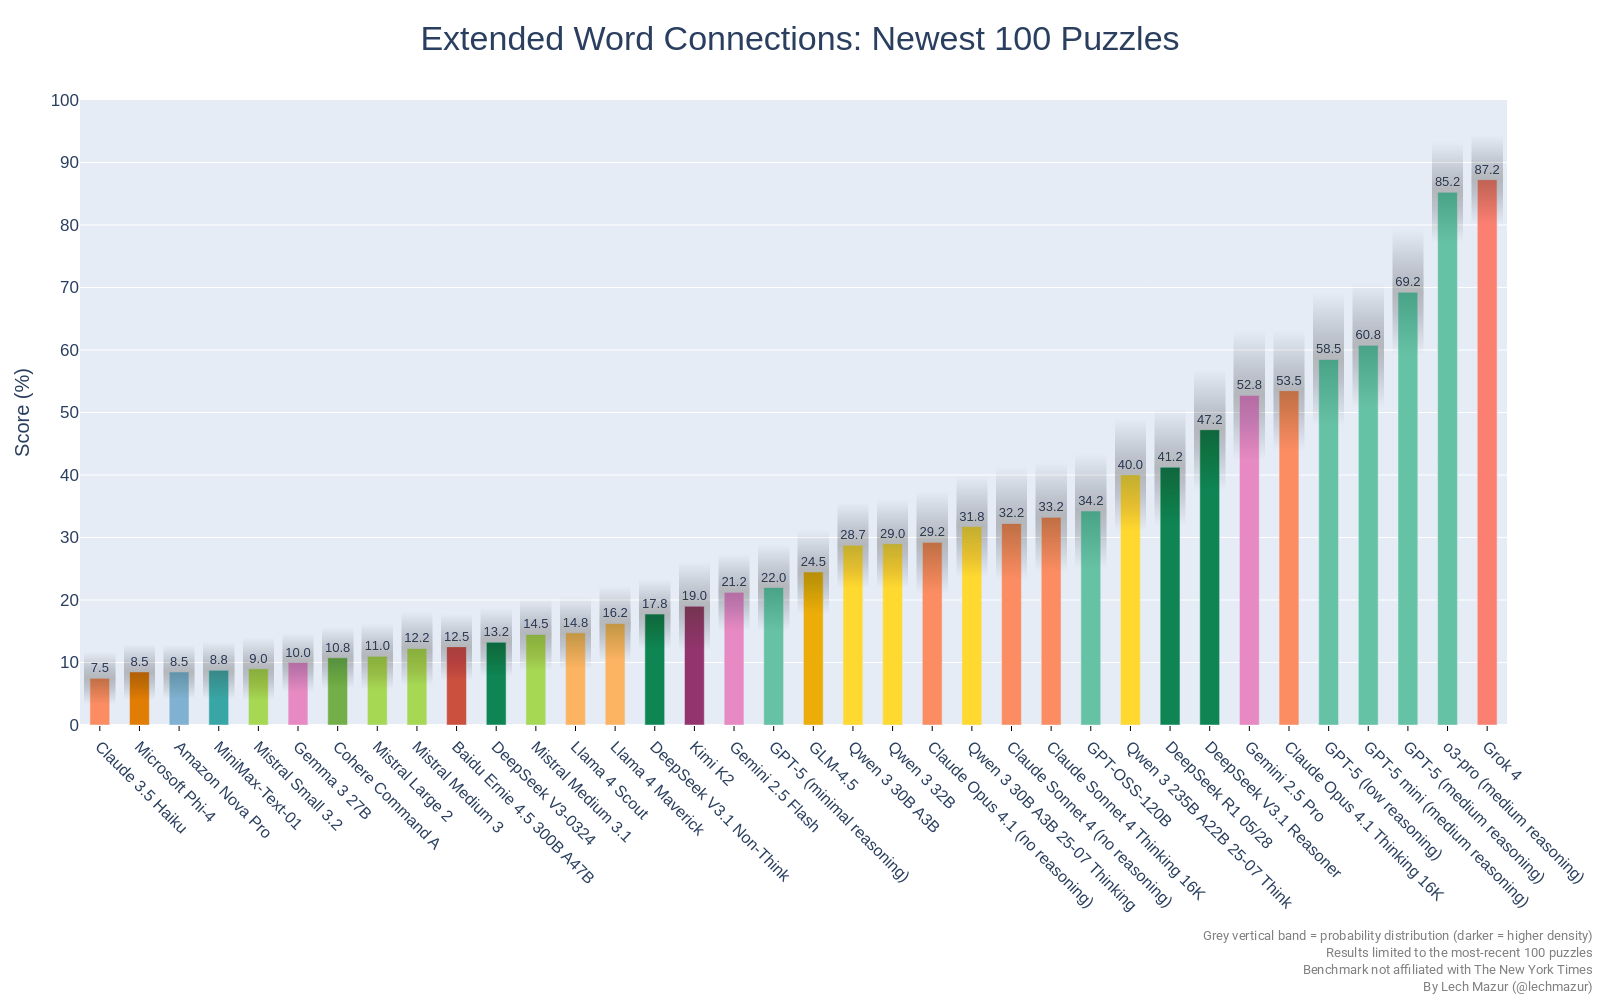
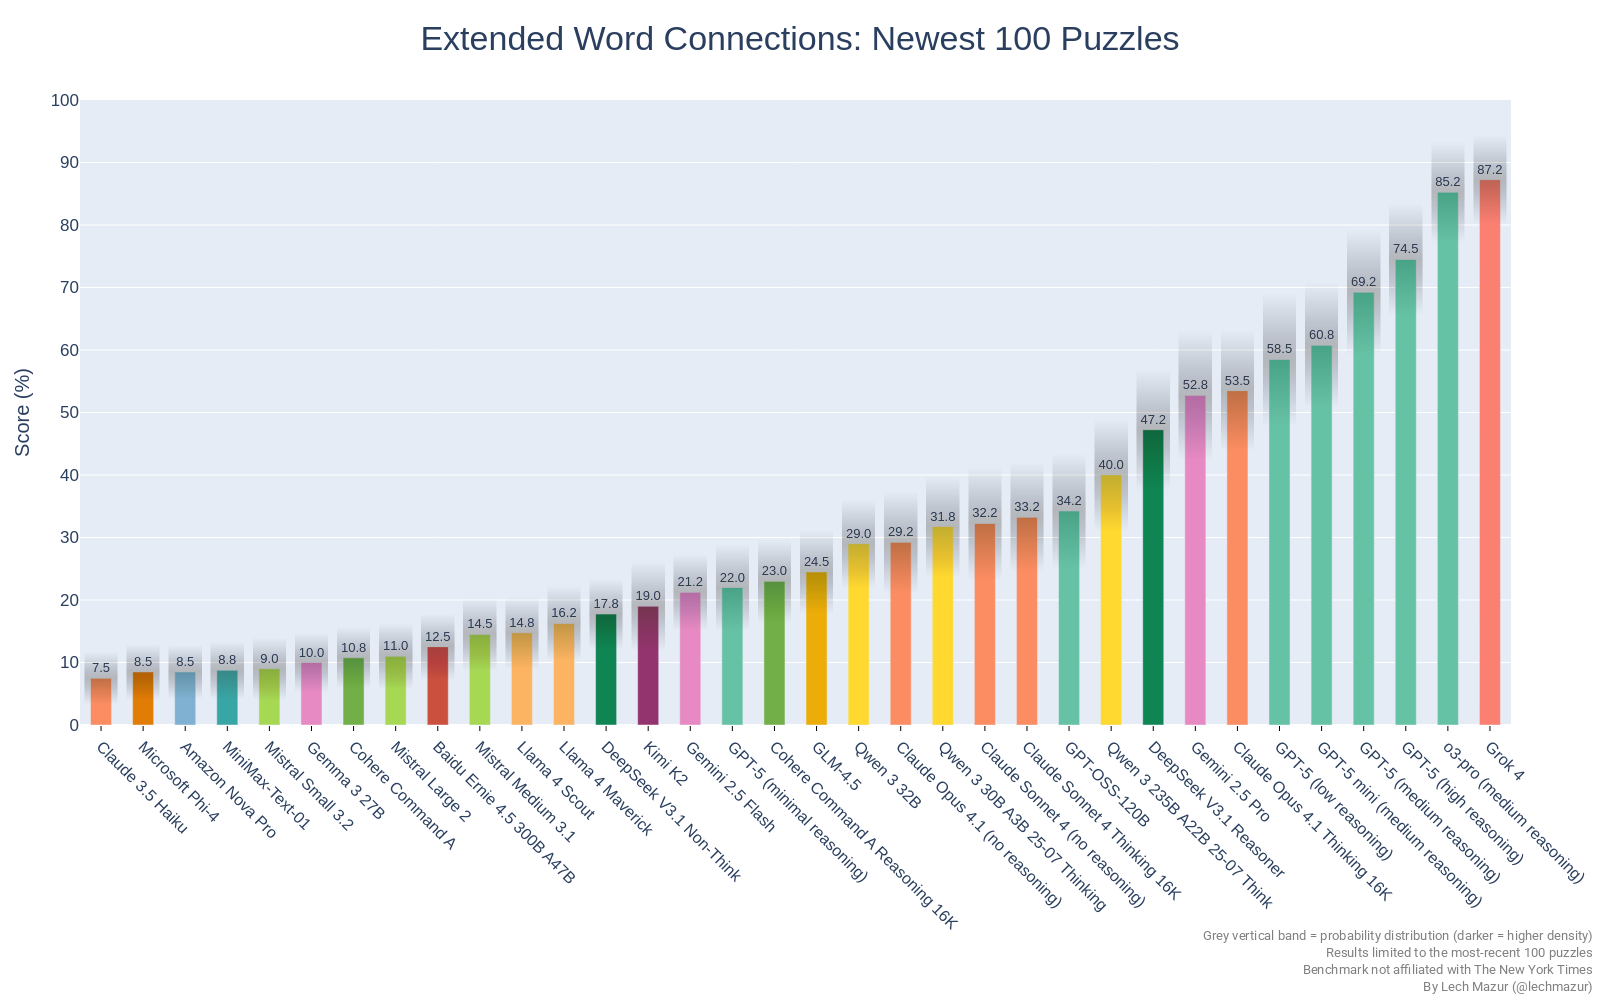
GPT-5 high reasoning and Cohere Command A Reasoning (16K)

Changed region(s): [[0.0625, 0.155, 0.9688, 0.93]]

diff --git a/README.md b/README.md
@@ -16,88 +16,90 @@ As of Feb 4, 2025, there is a new version of the benchmark. The standard NYT Con
 |2|o3-pro (medium reasoning)|87.3|759|
 |3|o1-pro (medium reasoning)|82.5|651|
 |4|o3 (high reasoning)|78.6|759|
-|5|o4-mini (high reasoning)|73.6|759|
-|6|o3 (medium reasoning)|73.0|759|
-|7|GPT-5 (medium reasoning)|72.2|759|
-|8|o1 (medium reasoning)|70.8|651|
-|9|o4-mini (medium reasoning)|68.8|651|
-|10|GPT-5 mini (medium reasoning)|66.9|759|
-|11|GPT-5 (low reasoning)|65.4|759|
-|12|o3-mini (high reasoning)|61.4|651|
-|13|Claude Opus 4.1 Thinking 16K|58.8|759|
-|14|DeepSeek V3.1 Reasoner|57.7|759|
-|15|Gemini 2.5 Pro|57.6|759|
-|16|Qwen 3 235B A22B|54.3|759|
-|17|Gemini 2.5 Pro Exp 03-25|54.1|651|
-|18|o3-mini (medium reasoning)|53.6|651|
-|19|Claude Opus 4 Thinking 16K|49.7|759|
-|20|DeepSeek R1 05/28|48.6|759|
-|21|Qwen 3 235B A22B 25-07 Think|46.2|759|
-|22|Gemini 2.5 Pro Preview 05-06|42.5|651|
-|23|Claude Sonnet 4 Thinking 16K|40.3|759|
-|24|Claude Sonnet 4 Thinking 64K|39.6|651|
-|25|GPT-OSS-120B|38.7|759|
-|26|DeepSeek R1|38.6|651|
-|27|Claude Opus 4.1 (no reasoning)|37.1|759|
-|28|Qwen 3 30B A3B|36.6|759|
-|29|Qwen 3 32B|35.8|759|
-|30|Qwen 3 30B A3B 25-07 Thinking|35.5|759|
-|31|Claude Opus 4 (no reasoning)|34.4|759|
-|32|GPT-4.5 Preview|34.2|651|
-|33|Claude 3.7 Sonnet Thinking 16K|33.6|651|
-|34|Qwen QwQ-32B 16K|31.4|651|
-|35|Grok 3 Mini Beta (high)|30.2|759|
-|36|GLM-4.5|30.2|759|
-|37|GPT-5 (minimal reasoning)|27.3|759|
-|38|o1-mini|26.9|651|
-|39|Claude Sonnet 4 (no reasoning)|26.6|759|
-|40|Grok 3 Mini Beta (low)|26.0|651|
-|41|Quasar Alpha|25.4|651|
-|42|Gemini 2.5 Flash|25.2|759|
-|43|GPT-4o Mar 2025|24.5|759|
-|44|Gemini 2.0 Flash Think Exp 01-21|23.1|649|
-|45|GPT-4.1|22.8|759|
-|46|GPT-4o Feb 2025|22.7|651|
-|47|Gemini 2.0 Pro Exp 02-05|21.7|651|
-|48|DeepSeek V3.1 Non-Think|21.6|759|
-|49|MiniMax-M1|21.3|688|
-|50|Kimi K2|19.8|759|
-|51|Grok 3 Beta (no reasoning)|19.7|759|
-|52|Grok 2 12-12|19.2|651|
-|53|Gemini 1.5 Pro (Sept)|19.2|601|
-|54|Claude 3 Opus|19.2|650|
-|55|Claude 3.7 Sonnet|19.2|651|
-|56|Gemini 2.0 Flash|18.8|651|
-|57|GPT-4o 2024-11-20|18.7|601|
-|58|Llama 4 Maverick|18.5|759|
-|59|Qwen 2.5 Max|18.0|651|
-|60|GPT-4o 2024-08-06|17.8|601|
-|61|Claude 3.5 Sonnet 2024-10-22|17.7|651|
-|62|Llama 4 Scout|17.4|759|
-|63|DeepSeek V3-0324|16.8|759|
-|64|Llama 3.1 405B|16.2|651|
-|65|Mistral Medium 3.1|15.2|759|
-|66|DeepSeek V3|15.1|651|
-|67|Llama 3.3 70B|15.1|651|
-|68|Baidu Ernie 4.5 300B A47B|14.8|759|
-|69|GPT-4.1 mini|14.4|759|
-|70|MiniMax-Text-01|13.8|759|
-|71|Cohere Command A|13.1|759|
-|72|Mistral Large 2|12.4|759|
-|73|Gemma 2 27B|12.2|651|
-|74|Gemma 3 27B|11.6|759|
-|75|Mistral Medium 3|11.5|759|
-|76|Mistral Small 3.1|11.4|651|
-|77|Mistral Small 3.2|11.2|759|
-|78|Qwen 2.5 72B|10.5|759|
-|79|Claude 3.5 Haiku|10.0|759|
-|80|Amazon Nova Pro|9.9|759|
-|81|Microsoft Phi-4|9.9|759|
-|82|GPT-4o mini|9.7|759|
-|83|Mistral Small 3|8.9|601|
-|84|GPT-4.1 nano|8.1|759|
-|85|GLM4-32B-0414|7.6|759|
-|86|Claude 3 Haiku|2.2|601|
+|5|GPT-5 (high reasoning)|77.0|759|
+|6|o4-mini (high reasoning)|73.6|759|
+|7|o3 (medium reasoning)|73.0|759|
+|8|GPT-5 (medium reasoning)|72.2|759|
+|9|o1 (medium reasoning)|70.8|651|
+|10|o4-mini (medium reasoning)|68.8|651|
+|11|GPT-5 mini (medium reasoning)|66.9|759|
+|12|GPT-5 (low reasoning)|65.4|759|
+|13|o3-mini (high reasoning)|61.4|651|
+|14|Claude Opus 4.1 Thinking 16K|58.8|759|
+|15|DeepSeek V3.1 Reasoner|57.7|759|
+|16|Gemini 2.5 Pro|57.6|759|
+|17|Qwen 3 235B A22B|54.3|759|
+|18|Gemini 2.5 Pro Exp 03-25|54.1|651|
+|19|o3-mini (medium reasoning)|53.6|651|
+|20|Claude Opus 4 Thinking 16K|49.7|759|
+|21|DeepSeek R1 05/28|48.6|759|
+|22|Qwen 3 235B A22B 25-07 Think|46.2|759|
+|23|Gemini 2.5 Pro Preview 05-06|42.5|651|
+|24|Claude Sonnet 4 Thinking 16K|40.3|759|
+|25|Claude Sonnet 4 Thinking 64K|39.6|651|
+|26|GPT-OSS-120B|38.7|759|
+|27|DeepSeek R1|38.6|651|
+|28|Claude Opus 4.1 (no reasoning)|37.1|759|
+|29|Qwen 3 30B A3B|36.6|759|
+|30|Qwen 3 32B|35.8|759|
+|31|Qwen 3 30B A3B 25-07 Thinking|35.5|759|
+|32|Claude Opus 4 (no reasoning)|34.4|759|
+|33|GPT-4.5 Preview|34.2|651|
+|34|Claude 3.7 Sonnet Thinking 16K|33.6|651|
+|35|Qwen QwQ-32B 16K|31.4|651|
+|36|Grok 3 Mini Beta (high)|30.2|759|
+|37|GLM-4.5|30.2|759|
+|38|GPT-5 (minimal reasoning)|27.3|759|
+|39|o1-mini|26.9|651|
+|40|Claude Sonnet 4 (no reasoning)|26.6|759|
+|41|Grok 3 Mini Beta (low)|26.0|651|
+|42|Quasar Alpha|25.4|651|
+|43|Cohere Command A Reasoning 16K|25.3|759|
+|44|Gemini 2.5 Flash|25.2|759|
+|45|GPT-4o Mar 2025|24.5|759|
+|46|Gemini 2.0 Flash Think Exp 01-21|23.1|649|
+|47|GPT-4.1|22.8|759|
+|48|GPT-4o Feb 2025|22.7|651|
+|49|Gemini 2.0 Pro Exp 02-05|21.7|651|
+|50|DeepSeek V3.1 Non-Think|21.6|759|
+|51|MiniMax-M1|21.3|688|
+|52|Kimi K2|19.8|759|
+|53|Grok 3 Beta (no reasoning)|19.7|759|
+|54|Grok 2 12-12|19.2|651|
+|55|Gemini 1.5 Pro (Sept)|19.2|601|
+|56|Claude 3 Opus|19.2|650|
+|57|Claude 3.7 Sonnet|19.2|651|
+|58|Gemini 2.0 Flash|18.8|651|
+|59|GPT-4o 2024-11-20|18.7|601|
+|60|Llama 4 Maverick|18.5|759|
+|61|Qwen 2.5 Max|18.0|651|
+|62|GPT-4o 2024-08-06|17.8|601|
+|63|Claude 3.5 Sonnet 2024-10-22|17.7|651|
+|64|Llama 4 Scout|17.4|759|
+|65|DeepSeek V3-0324|16.8|759|
+|66|Llama 3.1 405B|16.2|651|
+|67|Mistral Medium 3.1|15.2|759|
+|68|DeepSeek V3|15.1|651|
+|69|Llama 3.3 70B|15.1|651|
+|70|Baidu Ernie 4.5 300B A47B|14.8|759|
+|71|GPT-4.1 mini|14.4|759|
+|72|MiniMax-Text-01|13.8|759|
+|73|Cohere Command A|13.1|759|
+|74|Mistral Large 2|12.4|759|
+|75|Gemma 2 27B|12.2|651|
+|76|Gemma 3 27B|11.6|759|
+|77|Mistral Medium 3|11.5|759|
+|78|Mistral Small 3.1|11.4|651|
+|79|Mistral Small 3.2|11.2|759|
+|80|Qwen 2.5 72B|10.5|759|
+|81|Claude 3.5 Haiku|10.0|759|
+|82|Amazon Nova Pro|9.9|759|
+|83|Microsoft Phi-4|9.9|759|
+|84|GPT-4o mini|9.7|759|
+|85|Mistral Small 3|8.9|601|
+|86|GPT-4.1 nano|8.1|759|
+|87|GLM4-32B-0414|7.6|759|
+|88|Claude 3 Haiku|2.2|601|
 
 
 ---
@@ -203,6 +205,7 @@ This benchmark evaluates large language models (LLMs) using 436 NYT Connections 
 ---
 
 ## Updates
+- Aug 23, 2025: GPT-5 high reasoning and Cohere Command A Reasoning (16K) added.
 - Aug 22, 2025: DeepSeek 3.1, Qwen 3 30B A3B 25-07, Mistral Medium 3.1, GPT-5 minimal and low reasoning added.
 - Aug 7, 2025: GPT-5 added.
 - Aug 5, 2025: Claude Opus 4.1, GPT-OSS-120B added.
